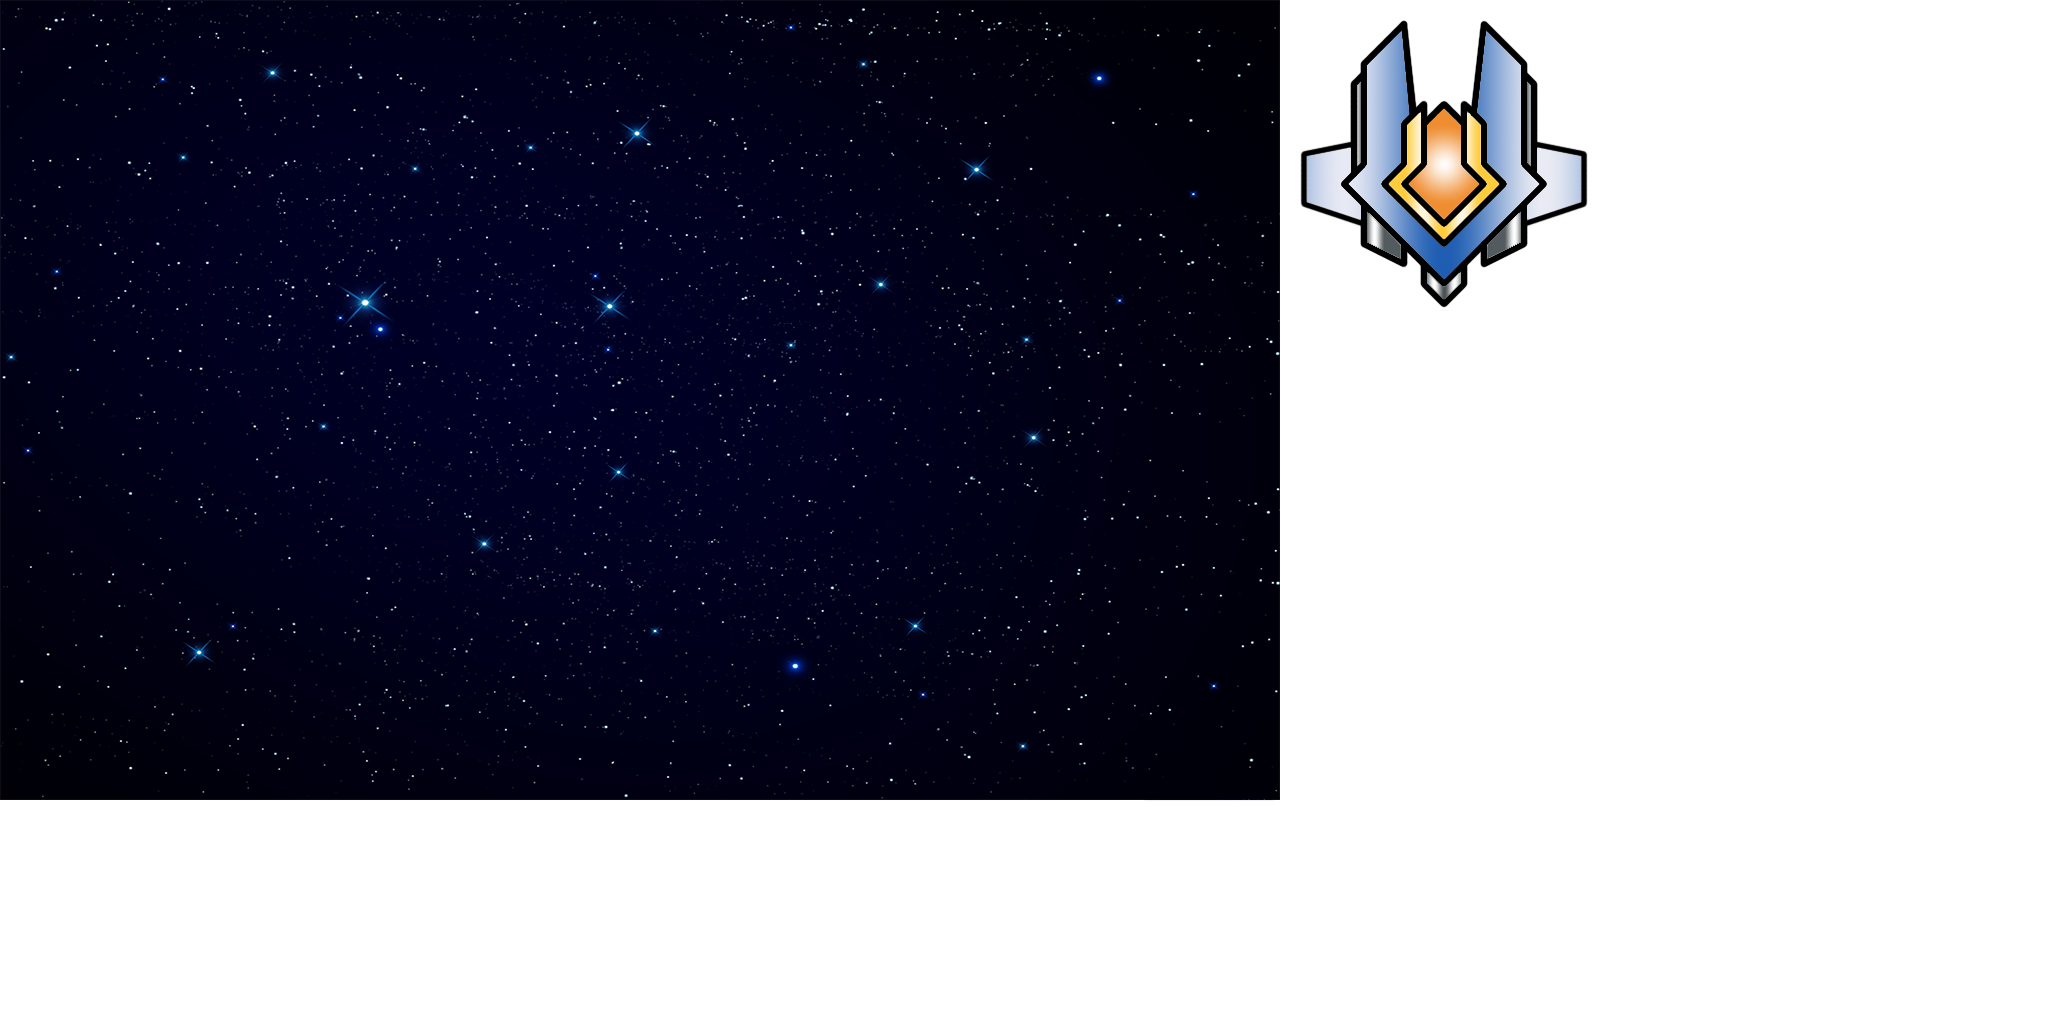
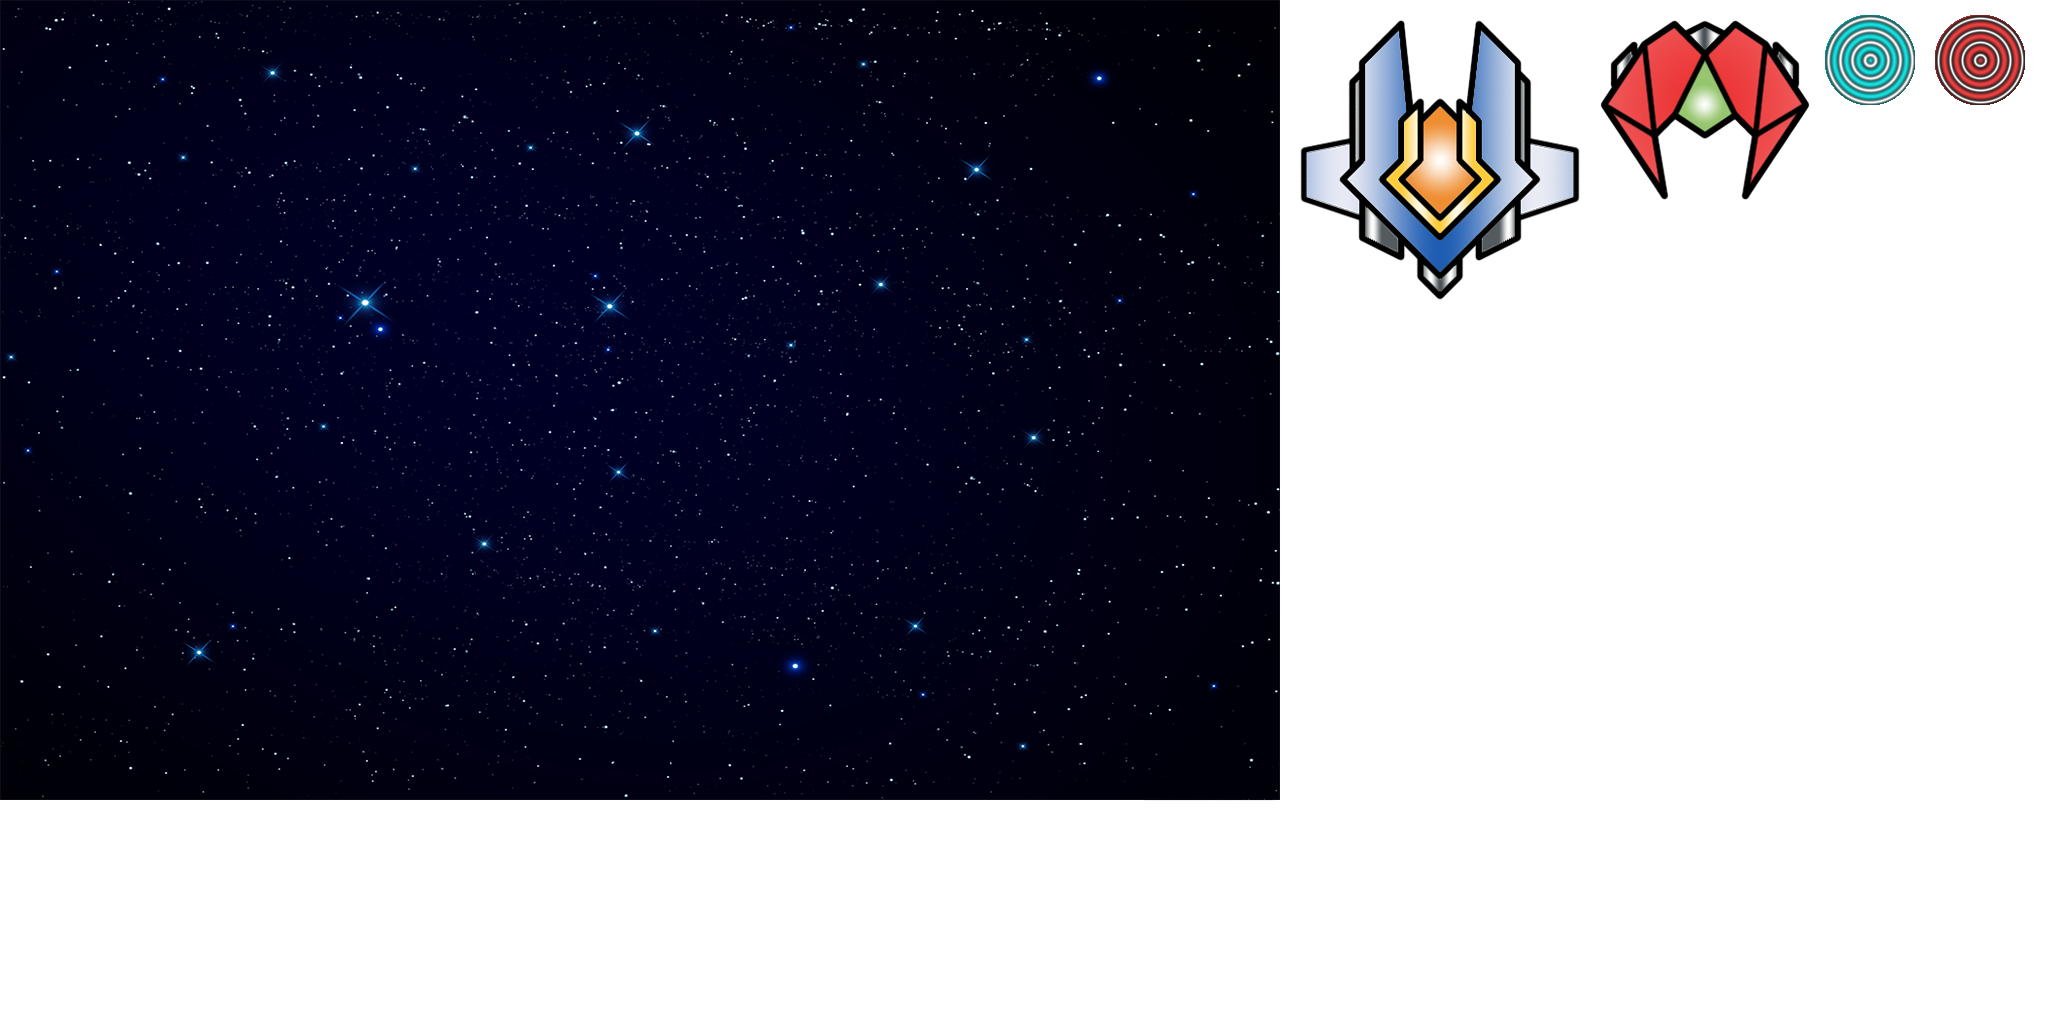
Added the rest of the Invasion assets. Just need to fix a couple of bugs and setup some randomization.

Changed region(s): [[0.625, 0.0, 1.0, 0.3125]]

diff --git a/vergegl/src/com/dbz/verge/microgames/InvasionMicroGame.java b/vergegl/src/com/dbz/verge/microgames/InvasionMicroGame.java
@@ -17,6 +17,7 @@ import com.dbz.verge.microgames.objects.Lazer;
 import com.dbz.verge.microgames.objects.Ship;
 
 // TODO: *** Need to implement Speed/Levels.
+// TODO: Hit detection on walls causes Jitter.
 public class InvasionMicroGame extends MicroGame {
 
 	// --------------
@@ -26,7 +27,10 @@ public class InvasionMicroGame extends MicroGame {
 	// Assets
 	public static Texture invasionTexture;
 	public static TextureRegion invasionBackgroundRegion;
-	public static TextureRegion invasionShipRegion;
+	public static TextureRegion invasionPlayerShipRegion;
+	public static TextureRegion invasionPlayerLazerRegion;
+	public static TextureRegion invasionEnemyShipRegion;
+	public static TextureRegion invasionEnemyLazerRegion;
 
 	// Queue for lane selection
 	private Queue<Float> lanes = new LinkedList<Float>();
@@ -67,12 +71,25 @@ public class InvasionMicroGame extends MicroGame {
 	private Rectangle backgroundBoundsTwo = new Rectangle(0, 800, 1280, 800);
 
 	// Game Variables.
-	public static final int MAX_ENEMY_SHIPS = 1;
+	public static final int MAX_ENEMY_SHIPS = 3;
 	public int enemyShipsActive = 0;
 	public int enemyShipIndex = 0;
 
 	public static final int MAX_LAZERS = 100;
 	public int lazerIndex = 0;
+	
+	public Rectangle spawn1_1 = new Rectangle(250, 800, 115, 100);
+	public Rectangle spawn1_2 = new Rectangle(500, 800, 115, 100);
+	public Rectangle spawn1_3 = new Rectangle(750, 800, 115, 100);
+	
+	public Rectangle spawn2_1 = new Rectangle(0, 800, 115, 100);
+	public Rectangle spawn2_2 = new Rectangle(150, 800, 115, 100);
+	public Rectangle spawn2_3 = new Rectangle(300, 800, 115, 100);
+	
+	public int spawnZoneIndex = 0;
+	public int spawnIndex = 0;
+	public Rectangle spawnZones[][] = { {spawn1_1, spawn1_2, spawn1_3}, 
+										{spawn2_1, spawn2_2, spawn2_3} };
 	
 	// Game Objects.
 	public Ship playerShip = new Ship(480, 50);
@@ -94,13 +111,18 @@ public class InvasionMicroGame extends MicroGame {
 		singleTouchEnabled = true;
 		
 		playerShip.playerControlled = true;
+		playerShip.bounds.width = 125;
+		playerShip.bounds.height = 125;
 	}
 
 	@Override
 	public void load() {
 		invasionTexture = new Texture("invasion.png");
 		invasionBackgroundRegion = new TextureRegion(invasionTexture, 0, 0, 1280, 800);
-		invasionShipRegion = new TextureRegion(invasionTexture, 1300, 20, 280, 280);
+		invasionPlayerShipRegion = new TextureRegion(invasionTexture, 1300, 20, 280, 280);
+		invasionPlayerLazerRegion = new TextureRegion(invasionTexture, 1820, 10, 100, 100);
+		invasionEnemyShipRegion = new TextureRegion(invasionTexture, 1600, 20, 210, 180);
+		invasionEnemyLazerRegion = new TextureRegion(invasionTexture, 1930, 10, 100, 100);
 	}
 
 	@Override
@@ -186,7 +208,14 @@ public class InvasionMicroGame extends MicroGame {
 	public void generateEnemyShip() {
 		if (enemyShipIndex >= MAX_ENEMY_SHIPS)
 			enemyShipIndex = 0;
-		enemyShips[enemyShipIndex] = new Ship(480, 600);	// TODO: ***
+		if (spawnIndex >= MAX_ENEMY_SHIPS)
+			spawnIndex = 0;
+		
+		float x = spawnZones[spawnZoneIndex][spawnIndex].lowerLeft.x;
+		float y = spawnZones[spawnZoneIndex][spawnIndex].lowerLeft.y;
+		spawnIndex++;
+		
+		enemyShips[enemyShipIndex] = new Ship(x, y);
 		enemyShipsActive++;
 		enemyShipIndex++;
 	}
@@ -207,7 +236,7 @@ public class InvasionMicroGame extends MicroGame {
 
 	public void updatePlayerShip(float deltaTime) {
 		if (!playerShipWallCollisionTest())			
-			getPlayerShipInput();
+			getPlayerShipAccelerometerInput();
 		else {
 			playerShip.setAcceleration(0, 0);
 			playerShip.setVelocity(0, 0);
@@ -216,7 +245,7 @@ public class InvasionMicroGame extends MicroGame {
 		playerShip.update(deltaTime);
 	}
 	
-	public void getPlayerShipInput() {
+	public void getPlayerShipAccelerometerInput() {
 		float x = game.getInput().getAccelY() / 4;
 		
 		// Case 0: Turn from Right to Left.
@@ -253,8 +282,18 @@ public class InvasionMicroGame extends MicroGame {
 //					}		
 //				}	
 				
-				if (enemyShips[i].active)
+				if (enemyShips[i].active) {
 					enemyShips[i].update(deltaTime);
+					
+					if (enemyShips[i].aiFireLazer) {	//TODO: Clean this up.
+		        		if (lazerIndex >= MAX_LAZERS)
+		        			lazerIndex = 0;
+		        		lazers[lazerIndex] = enemyShips[i].fireLazer();
+		        		lazers[lazerIndex].playerLazer = false;
+		        		lazerIndex++;
+		        		enemyShips[i].aiFireLazer = false;
+					}
+				}
 				else {
 					enemyShips[i] = null;
 					enemyShipsActive--;
@@ -418,9 +457,6 @@ public class InvasionMicroGame extends MicroGame {
 	public void presentRunning() {
 		batcher.beginBatch(invasionTexture);
 		drawRunningBackground();
-//		batcher.endBatch();
-//		
-//		batcher.beginBatch(traffic);
 		drawRunningObjects();
 		batcher.endBatch();
 //		drawRunningBounds();

diff --git a/vergegl/src/com/dbz/verge/microgames/objects/Ship.java b/vergegl/src/com/dbz/verge/microgames/objects/Ship.java
@@ -1,5 +1,7 @@
 package com.dbz.verge.microgames.objects;
 
+import android.util.Log;
+
 import com.dbz.framework.gl.SpriteBatcher;
 import com.dbz.framework.math.Rectangle;
 import com.dbz.framework.math.Vector2;
@@ -20,7 +22,7 @@ public class Ship {	// TODO: Add collision inside of GameObjects.
 	private Vector2 acceleration = new Vector2(0.0f, 0.0f);
 	private Vector2 velocity = new Vector2(0.0f, 0.0f);
 	private float mass = 1.0f;
-	private int width = 125, height = 125;
+	private int width = 115, height = 100;	// Player Ship : 125, 125
 	public Rectangle bounds;
 
 	// Game Logic.
@@ -30,10 +32,14 @@ public class Ship {	// TODO: Add collision inside of GameObjects.
 	public int health = 100;
 	private int lazerAmmo = 100;					// TODO: Lazer Overheat instead?
 
+	public float aiFireTimer = 0.0f;
+	public float aiFireSpeed = 1.0f;
+	public boolean aiFireLazer = false;
+	
 	// TODO: Color of Ship / Sprite to Draw. Have to redesign Graphics to be able to dynamically color.
 
-	public Ship(int positionX, int positionY) {
-		this.bounds = new Rectangle(positionX, positionY, width, height);
+	public Ship(float x, float y) {
+		this.bounds = new Rectangle(x, y, width, height);
 	}
 	
 	public void update(float deltaTime) {
@@ -58,7 +64,15 @@ public class Ship {	// TODO: Add collision inside of GameObjects.
 	}
 	
 	public void updateAI(float deltaTime) {
-		setAcceleration(0.0f, -1.0f);
+		aiFireTimer += deltaTime;
+		
+		if (aiFireTimer >= aiFireSpeed) {
+			aiFireLazer = true;
+			aiFireTimer = 0;
+		}
+		
+//		setAcceleration(0.0f, -1.0f);
+		setVelocity(0.0f, -1.0f);
 	}
 	
 	public void setAcceleration(float x, float y) {
@@ -117,16 +131,20 @@ public class Ship {	// TODO: Add collision inside of GameObjects.
 		Lazer lazer = null;
 		
 		if (lazerAmmo >= 0) {
-			lazer = new Lazer(bounds);
+			lazer = new Lazer(bounds, playerControlled);
+			Log.d("Invasion", "Player Controlled: " + playerControlled);
 			AssetsManager.playSound(AssetsManager.hitSound);
 			lazerAmmo--;
-		} 
+		}
 		
 		return lazer;
 	}
 	
 	// TODO: Do something about this..
-	public void draw(SpriteBatcher batcher) { 
-		batcher.drawSprite(bounds, InvasionMicroGame.invasionShipRegion); 
+	public void draw(SpriteBatcher batcher) {
+		if (playerControlled)
+			batcher.drawSprite(bounds, InvasionMicroGame.invasionPlayerShipRegion);
+		else
+			batcher.drawSprite(bounds, InvasionMicroGame.invasionEnemyShipRegion);
 	}
 }

diff --git a/vergegl/src/com/dbz/verge/microgames/objects/Lazer.java b/vergegl/src/com/dbz/verge/microgames/objects/Lazer.java
@@ -10,18 +10,29 @@ import com.dbz.verge.microgames.InvasionMicroGame;
 public class Lazer {
 	// Physics.
 	public Rectangle bounds;
-	private int width = 25, height = 50;
-	private Vector2 velocity = new Vector2(0, 3);
-	private Vector2 acceleration = new Vector2(0, 3);
+	private int width = 25, height = 25;
+	private Vector2 velocity;
+	private Vector2 acceleration;
 
 	// Game Logic.
 	public boolean active = true;
 	public int damage = 100;
+	public boolean playerLazer = true;
 	
-	public Lazer(Rectangle shooterBounds) {
-		float x = shooterBounds.lowerLeft.x + (shooterBounds.width / 2) - (width / 2);	
-		float y = shooterBounds.lowerLeft.y + shooterBounds.height; // + (shooterBounds.height / 2);
-		bounds = new Rectangle(x, y, width, height);
+	public Lazer(Rectangle shooterBounds, boolean isPlayer) { // TODO: Clean this up.
+		if (isPlayer) {
+			float x = shooterBounds.lowerLeft.x + (shooterBounds.width / 2) - (width / 2);	
+			float y = shooterBounds.lowerLeft.y + shooterBounds.height;
+			bounds = new Rectangle(x, y, width, height);
+			velocity = new Vector2(0, 3);
+			acceleration = new Vector2(0, 3);
+		} else {
+			float x = shooterBounds.lowerLeft.x + (shooterBounds.width / 2) - (width / 2);	
+			float y = shooterBounds.lowerLeft.y - height;
+			bounds = new Rectangle(x, y, width, height);
+			velocity = new Vector2(0.0f, -3.0f);
+			acceleration = new Vector2(0.0f, 0.0f);
+		}
 	}
 	
 	public void update() {
@@ -40,7 +51,10 @@ public class Lazer {
 	}
 	
 	// TODO: Do something about this...
-	public void draw(SpriteBatcher batcher) { 
-		batcher.drawSprite(bounds, InvasionMicroGame.invasionShipRegion); 
+	public void draw(SpriteBatcher batcher) {
+		if (playerLazer)
+			batcher.drawSprite(bounds, InvasionMicroGame.invasionPlayerLazerRegion);
+		else
+			batcher.drawSprite(bounds, InvasionMicroGame.invasionEnemyLazerRegion);
 	}
 }
